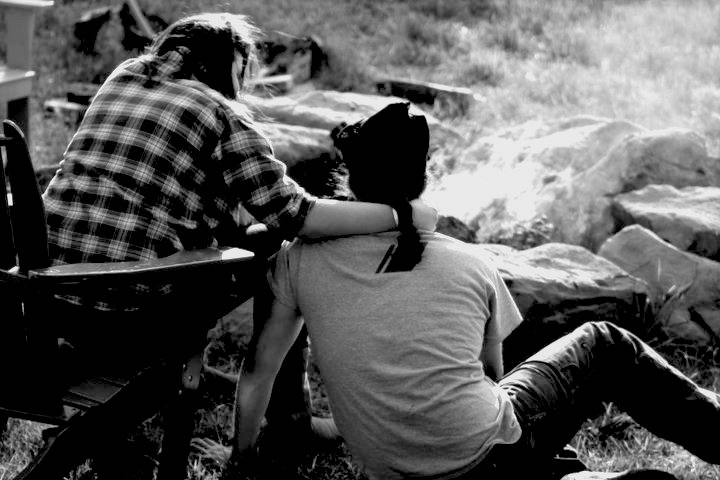
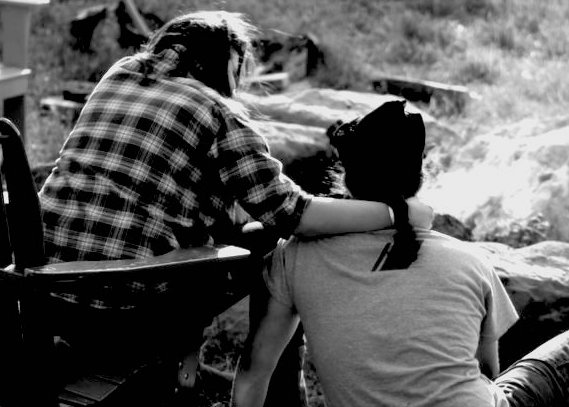
Recropped photo, removed blur on mobile

diff --git a/css/wedding.css b/css/wedding.css
@@ -120,6 +120,9 @@ h4 {
   .navbar-custom {
     background-color: #333;
   }
+  .brand-heading {
+  text-shadow: none;
+}
 } 
 
 footer {

diff --git a/README.md b/README.md
@@ -1,4 +1,8 @@
-# [Start Bootstrap](http://startbootstrap.com/) - [Grayscale](http://startbootstrap.com/template-overviews/grayscale/)
+# Avery & Julian's Wedding Website
+
+This website was built (poorly) by Julian, with Avery's help. It's built around the Grayscale Bootstrap template, available for free online. The rest of this README describes the Grayscale theme.
+
+## [Start Bootstrap](http://startbootstrap.com/) - [Grayscale](http://startbootstrap.com/template-overviews/grayscale/)
 
 [Grayscale](http://startbootstrap.com/template-overviews/grayscale/) is a multipurpose, one page HTML theme for [Bootstrap](http://getbootstrap.com/) created by [Start Bootstrap](http://startbootstrap.com/). This template features various content sections and a Google Maps section with a custom map marker.
 
